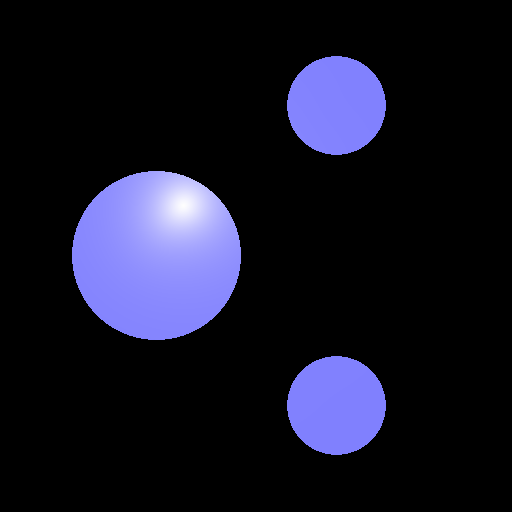
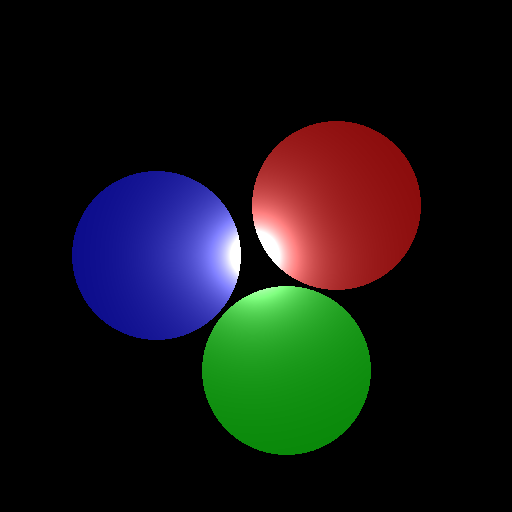
Some more improvements. Material simple handling. There are some issues with ray intersections when one objects is behind other. Need to look again in formulas.

Changed region(s): [[0.125, 0.0938, 0.8438, 0.9062]]

diff --git a/src/scene/Loader.cpp b/src/scene/Loader.cpp
@@ -4,12 +4,23 @@
 
 #include "Loader.hpp"
 
+#include "core/Material.hpp"
 #include "shape/Sphere.hpp"
+#include "shape/Light.hpp"
 
 namespace rt
 {
 namespace scene
 {
+
+Loader::Loader() : logger_("Loader")
+{
+    objectMapping = 
+    {
+        {"sphere", ObjectType::Sphere},
+        {"light" , ObjectType::Light}
+    };
+}
 
 Scene Loader::load(std::string filename)
 {
@@ -30,20 +41,12 @@ Scene Loader::load(std::string filename)
         logger_.dbg() << "Object: "<< object.get("type","unknown").asString();
         auto objectType = object.get("type", "null").asString();
 
-        if (objectType == "sphere")
+        switch(objectMapping[objectType])
         {
-            Json::Value sphereNode = object.get("config", "null");
-            loadSphere(scene, sphereNode);
-        }
-        else if(objectType == "light")
-        {
-            Json::Value lightNode = object.get("config", "null");
-            loadLight(scene, lightNode);
-        }
-        else
-        {
-            throw std::string("Unknown object type: ") + objectType;
-        }
+            case ObjectType::Sphere : loadSphere(scene, object); break;
+            case ObjectType::Light  : loadLight(scene, object); break;
+            default : throw std::string("Unknown object type: ") + objectType;
+        };
     }
 
     logger_.dbg() << "Loaded objects: " << scene.getObjects().size();
@@ -66,42 +69,57 @@ Json::Value Loader::getOrDie(Json::Value node, std::string name)
     }
 }
 
-
 core::Point Loader::loadPosition(Json::Value& objectNode)
 {
     Json::Value position = getOrDie(objectNode, "position");
     double x = position.get("x", "0.0").asDouble();
     double y = position.get("y", "0.0").asDouble();
     double z = position.get("z", "0.0").asDouble();
-    return core::Point(x, y, z);    
+    return core::Point{x, y, z};    
 }
 
-void Loader::loadSphere(Scene& scene, Json::Value& sphereNode)
+core::Material Loader::loadMaterial(Json::Value& objectNode)
+{
+    Json::Value material = getOrDie(objectNode, "material");
+    core::Color ambient = loadColor(material, "ambient");
+    core::Color specular = loadColor(material, "specular");
+    core::Color diffuse = loadColor(material, "diffuse");
+    return core::Material{ambient, specular, diffuse};
+}
+
+core::Color Loader::loadColor(Json::Value& objectNode, std::string colorName)
+{
+    Json::Value color = getOrDie(objectNode, colorName);
+    double r = color.get("r", "0.0").asDouble();
+    double g = color.get("g", "0.0").asDouble();
+    double b = color.get("b", "0.0").asDouble(); 
+    return core::Color{r, b, g};
+}
+
+void Loader::loadSphere(Scene& scene, Json::Value& objectNode)
 {
     logger_.dbg()<< "Loading sphere...";
-    
+    Json::Value sphereNode = objectNode.get("config", "null");  
     shape::Sphere::Ptr object = std::make_shared<shape::Sphere>();
-
     core::Point pos = loadPosition(sphereNode);
-
     double radius = getOrDie(sphereNode, "radius").asDouble();
-
+    core::Material material = loadMaterial(sphereNode);
+    
     object->setPosition(pos);
     object->setRadius(radius);
-
+    object->setMaterial(material);
     scene.addObject(object);
 }
 
-void Loader::loadLight(Scene& scene, Json::Value& lightNode)
+void Loader::loadLight(Scene& scene, Json::Value& objectNode)
 {
     logger_.dbg()<< "Loading light...";
-    
+    Json::Value lightNode = objectNode.get("config", "null");
     shape::Light::Ptr object = std::make_shared<shape::Light>();
-
     core::Point pos = loadPosition(lightNode);
-
+    core::Color color = loadColor(lightNode, "color");
     object->setPosition(pos);
-
+    object->setColor(color);
     scene.addLight(object);
 }
 

diff --git a/src/Raytracer.cpp b/src/Raytracer.cpp
@@ -84,9 +84,9 @@ core::Color Raytracer::trace(core::Ray& ray, int recursiveStep)
         // double t = sqrtf(distance.dotProduct(distance));
 
         // PHONG lighting model
-        double a = 1.0;
+        double a = 0.1;
         double b = 0.01;
-        double c = 0.001;
+        double c = 0.00025;
 
         core::Vector V = ray.getDirection();    // observation vector
         core::Vector L = light->getPosition() - collision; // light incidence vector
@@ -100,24 +100,20 @@ core::Color Raytracer::trace(core::Ray& ray, int recursiveStep)
 
         double dotVR = R.dotProduct(V) * 1.1; // angle betwen observation vector and reflected vector
 
-        if (dotVR < 0) dotVR = 0;
+        if (dotVR < 0) dotVR = -dotVR;
 
         core::Vector difference = light->getPosition() - collision;
         double di = sqrtf(difference.getX() * difference.getX() +
             difference.getY() * difference.getY() + 
             difference.getZ() * difference.getZ());
 
-        //local += closestObject->
-
-                    //object Color                       //light color                     //some weird phong sh*t
-
-        local = local + core::Color{127.0,127.0,255.0} + core::Color{255.0,255.0,255.0} * (0.5/ (a+ b*di + c*di*di));
+        local = local + closestObject->getMaterial().ambient + light->getColor() * (0.5/ (a+ b*di + c*di*di));
 
     }
 
-    if (local.red >= 255) local.red = 254;
-    if (local.green >= 255) local.green = 254;
-    if (local.blue >= 255) local.blue = 254;
+    if (local.red >= 255) local.red = 255;
+    if (local.green >= 255) local.green = 255;
+    if (local.blue >= 255) local.blue = 255;
 
     return local;
 }

diff --git a/src/scene/Loader.hpp b/src/scene/Loader.hpp
@@ -2,9 +2,12 @@
 #define RT_SCENE_LOADER_HPP_
 
 #include <string>
+#include <unordered_map>
 
 #include "libs/jsoncpp/json/json.h"
 #include "libs/Logger.hpp"
+
+#include "core/Material.hpp"
 
 #include "Scene.hpp"
 
@@ -13,20 +16,30 @@ namespace rt
 namespace scene
 {
 
+enum class ObjectType
+{
+    Sphere,
+    Light
+};
+
 class Loader
 {
 public:
-    Loader() : logger_("Loader")
-    { }
+    Loader();
 
     Scene load(std::string filename);
    
 private:
     Json::Value getOrDie(Json::Value node, std::string name);
     core::Point loadPosition(Json::Value& objectNode);
+    core::Material loadMaterial(Json::Value& objectNode);
+    core::Color loadColor(Json::Value& objectNode, std::string colorName);
 	void loadSphere(Scene& scene, Json::Value& sphereNode);
     void loadLight(Scene& scene, Json::Value& lightNode);
+
+
     Logger logger_;
+    std::unordered_map<std::string, ObjectType> objectMapping;
 };
 
 }  // namespace scene

diff --git a/src/shape/Light.hpp b/src/shape/Light.hpp
@@ -5,6 +5,7 @@
 
 #include <libs/Logger.hpp>
 
+#include "core/Color.hpp"
 #include "core/Object.hpp"
 #include "core/Vector.hpp"
 #include "core/Ray.hpp"
@@ -17,14 +18,18 @@ namespace shape
 class Light : public core::Object
 {
 public:
-    typedef std::shared_ptr<Light> Ptr;
+    using Ptr = std::shared_ptr<Light>;
     Light();
 
     core::Vector getNormalAt(core::Point& p) override;
     bool hit(core::Ray r, double& dist) override;
 
+    void setColor(core::Color color);
+    core::Color getColor();
+
 private:
     Logger logger_;
+    core::Color color_;
 };
 
 }  // namespace shape

diff --git a/src/core/Object.hpp b/src/core/Object.hpp
@@ -3,6 +3,7 @@
 
 #include <memory>
 
+#include "Material.hpp"
 #include "Point.hpp"
 #include "Ray.hpp"
 
@@ -19,6 +20,9 @@ public:
     Object() : position_(0.0,0.0,0.0)
     { }
 
+    void setMaterial(Material material);
+    Material getMaterial();
+
     void setPosition(Point& p);
     Point getPosition();
 
@@ -28,6 +32,7 @@ public:
 
 private:
     Point position_;
+    Material material_;
 };
 
 }  // namespace core

diff --git a/src/core/Material.hpp b/src/core/Material.hpp
@@ -1,0 +1,22 @@
+#ifndef RT_CORE_MATERIAL_HPP_
+#define RT_CORE_MATERIAL_HPP_
+
+#include "Color.hpp"
+
+namespace rt
+{
+namespace core
+{
+
+class Material
+{
+public:
+    Color ambient;
+    Color specular;
+    Color diffuse;
+};
+
+}  // namesapce core
+}  // namespace rt
+
+#endif  // RT_CORE_MATERIAL_HPP_

diff --git a/src/shape/Light.cpp b/src/shape/Light.cpp
@@ -10,6 +10,15 @@ Light::Light() : logger_("Light")
 
 }
 
+void Light::setColor(core::Color color)
+{
+    color_ = color;
+}
+core::Color Light::getColor()
+{
+    return color_;
+}
+
 core::Vector Light::getNormalAt(core::Point& p)
 {
 	return core::Vector(0.0,0.0,0.0);

diff --git a/src/core/Object.cpp b/src/core/Object.cpp
@@ -5,6 +5,16 @@ namespace rt
 namespace core
 {
 
+void Object::setMaterial(Material material)
+{
+    material_ = material;
+}
+
+core::Material Object::getMaterial()
+{
+    return material_;
+}
+
 void Object::setPosition(Point& p)
 {
     position_ = p;

diff --git a/src/shape/Sphere.hpp b/src/shape/Sphere.hpp
@@ -16,7 +16,7 @@ namespace shape
 class Sphere : public core::Object
 {
 public:
-    typedef std::shared_ptr<Sphere> Ptr;
+    using Ptr = std::shared_ptr<Sphere>;
     
     Sphere() : logger_("Sphere")
     { }

diff --git a/src/shape/Sphere.cpp b/src/shape/Sphere.cpp
@@ -14,6 +14,7 @@ void Sphere::setRadius(double radius)
     radius_ = radius;
     logger_.inf() << "Radius set to " << radius;
 }
+
 double Sphere::getRadius()
 {
     return radius_;

diff --git a/src/Version.hpp b/src/Version.hpp
@@ -1,1 +1,1 @@
-#define VERSION "0.0.2.0"
+#define VERSION "0.0.3.0"

diff --git a/src/core/Material.cpp b/src/core/Material.cpp
@@ -1,0 +1,1 @@
+#include "Material.hpp"
